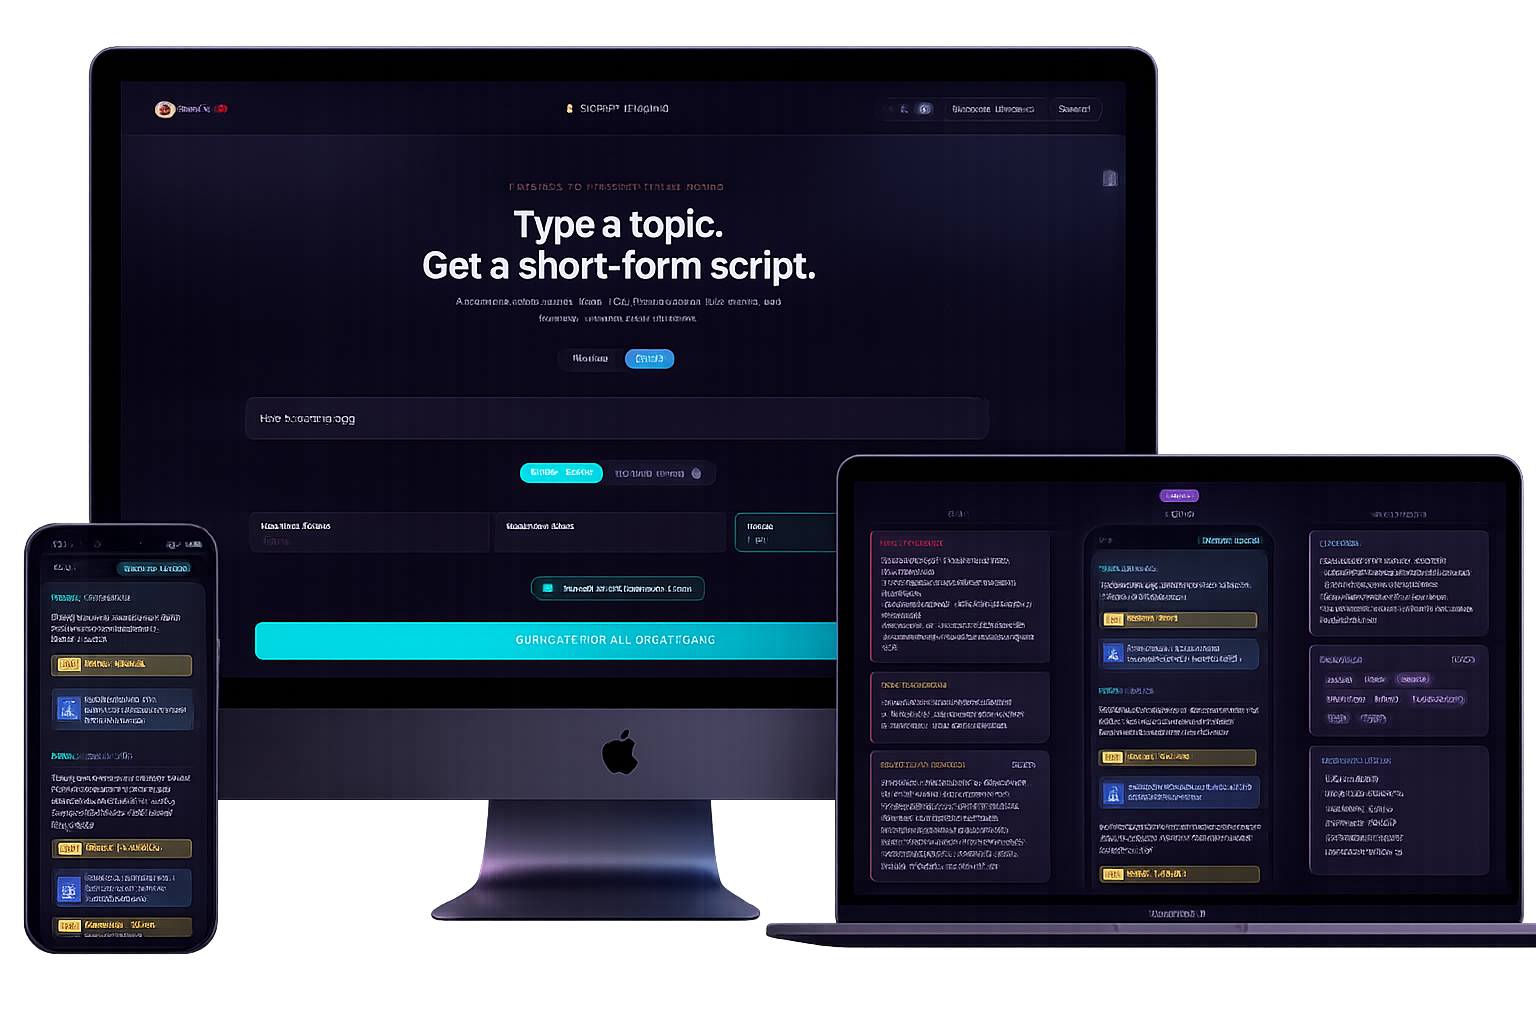
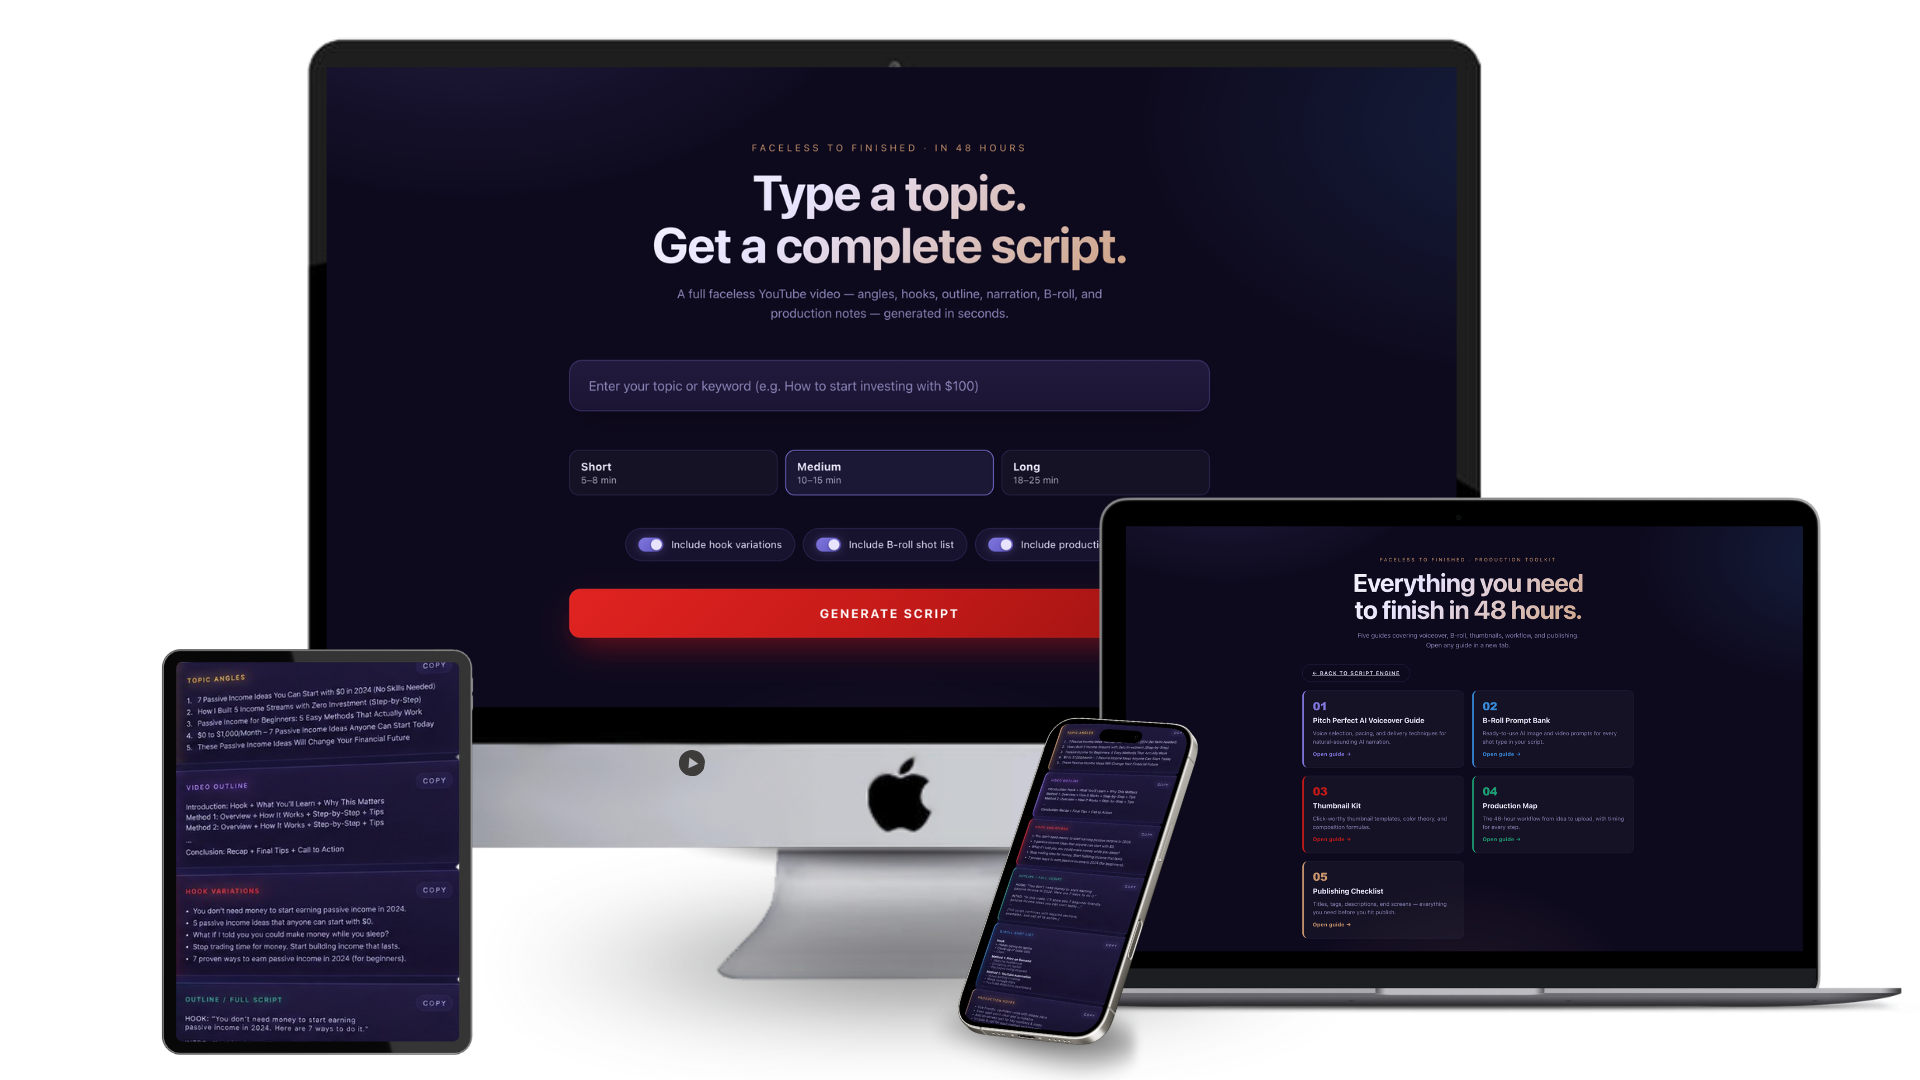
auto-commit for d523a716-f23a-4bb3-8fe0-ae420a1e267b

diff --git a/frontend/src/App.css b/frontend/src/App.css
@@ -283,21 +283,41 @@
 }
 .login-hero {
   display: flex; flex-direction: column;
-  /* Mobile: hero comes first and stays compact. Desktop: pinned center. */
+  align-items: center;
+  text-align: center;
+}
+.login-hero-image-wrap {
+  /* Wrapper exists solely to host the soft neon glow that sits BEHIND
+     the device-mockup PNG. The image itself has a transparent background,
+     so the glow is a layered radial gradient on this wrapper. */
+  position: relative;
+  width: 100%;
+  max-width: 520px;
+  margin: 0 0 28px;
+  display: flex; justify-content: center;
+}
+.login-hero-image-wrap::before {
+  content: "";
+  position: absolute;
+  inset: 0;
+  background:
+    radial-gradient(60% 55% at 50% 52%, rgba(124, 92, 240, 0.42) 0%, rgba(124, 92, 240, 0.18) 36%, transparent 70%),
+    radial-gradient(40% 35% at 50% 60%, rgba(255, 162, 64, 0.22) 0%, transparent 70%);
+  filter: blur(28px);
+  pointer-events: none;
+  z-index: 0;
 }
 .login-hero-image {
+  position: relative;
+  z-index: 1;
   width: 100%;
-  max-width: 480px;
+  max-width: 520px;
   height: auto;
-  margin: 0 0 24px;
-  /* Soft drop shadow so the device mockup floats on the dark background
-     without a hard rectangular edge. Filter > box-shadow because the PNG
-     has transparency around the devices. */
-  filter: drop-shadow(0 24px 40px rgba(124, 92, 240, 0.18))
-          drop-shadow(0 6px 12px rgba(0, 0, 0, 0.35));
+  filter: drop-shadow(0 18px 32px rgba(0, 0, 0, 0.4));
 }
 @media (max-width: 880px) {
-  .login-hero-image { max-width: 360px; align-self: center; }
+  .login-hero-image-wrap { max-width: 360px; }
+  .login-hero-image { max-width: 360px; }
 }
 .login-hero-eyebrow {
   font-weight: 600; font-size: 11px;
@@ -314,7 +334,17 @@
   color: var(--text);
 }
 .login-hero-accent {
-  background: linear-gradient(180deg, #FFFFFF 0%, #F5E8DA 55%, #D8B79A 100%);
+  /* Dark-mode default: cream → amber. The light-mode override below
+     swaps in deeper amber→orange so the text actually contrasts on
+     the near-white background. */
+  background: linear-gradient(180deg, #F7E2C7 0%, #E0A458 60%, #C9956C 100%);
+  -webkit-background-clip: text;
+  background-clip: text;
+  -webkit-text-fill-color: transparent;
+  color: transparent;
+}
+[data-theme="light"] .login-hero-accent {
+  background: linear-gradient(180deg, #C9711F 0%, #B0561B 60%, #8E3F12 100%);
   -webkit-background-clip: text;
   background-clip: text;
   -webkit-text-fill-color: transparent;
@@ -324,20 +354,25 @@
   color: var(--muted);
   font-size: 15px;
   line-height: 1.6;
-  margin: 0 0 28px;
+  margin: 0 auto 28px;
   max-width: 460px;
 }
 .login-hero-features {
   list-style: none;
   padding: 0;
-  margin: 0 0 28px;
+  margin: 0 auto 28px;
   display: flex; flex-direction: column;
   gap: 14px;
+  align-items: stretch;
+  width: 100%;
+  max-width: 360px;
 }
 .login-hero-feature {
   display: flex;
-  align-items: flex-start;
+  align-items: center;
+  justify-content: flex-start;
   gap: 14px;
+  text-align: left;
 }
 .login-hero-feature-icon {
   flex-shrink: 0;
@@ -372,11 +407,17 @@
 }
 .login-hero-link:hover { opacity: 0.8; }
 
-/* Tighten the login-card's vertical spacing when paired with hero */
-.login-grid .login-card { width: 100%; max-width: 440px; justify-self: center; }
+/* Tighten the login-card's vertical spacing when paired with hero +
+   center its inner text so it reads cleanly alongside the centered hero. */
+.login-grid .login-card {
+  width: 100%; max-width: 440px;
+  justify-self: center;
+  text-align: center;
+}
+.login-grid .login-card .login-form { align-items: stretch; }
 @media (min-width: 881px) {
-  .login-grid .login-card { justify-self: end; }
-  .login-grid .login-hero { justify-self: start; }
+  .login-grid .login-card { justify-self: center; }
+  .login-grid .login-hero { justify-self: center; }
 }
 
 /* ---------- Studio main ---------- */

diff --git a/frontend/src/pages/Login.jsx b/frontend/src/pages/Login.jsx
@@ -46,13 +46,17 @@ export default function Login() {
         {/* Brief landing hero — keeps non-customers oriented */}
         <section className="login-hero" data-testid="login-hero">
           {/* Hero illustration: device mockup showing the Script Engine in
-              action. Lives in /public so CRA serves it from %PUBLIC_URL%. */}
-          <img
-            className="login-hero-image"
-            src={`${process.env.PUBLIC_URL || ""}/login-hero.png`}
-            alt="Faceless to Finished Studio across desktop, laptop, and mobile"
-            data-testid="login-hero-image"
-          />
+              action. Lives in /public so CRA serves it from %PUBLIC_URL%.
+              The wrapper hosts a soft neon radial-glow that sits behind
+              the transparent PNG to give the mockup visual weight. */}
+          <div className="login-hero-image-wrap">
+            <img
+              className="login-hero-image"
+              src={`${process.env.PUBLIC_URL || ""}/login-hero.png`}
+              alt="Faceless to Finished Studio across desktop, laptop, tablet and mobile"
+              data-testid="login-hero-image"
+            />
+          </div>
           <p className="login-hero-eyebrow">Faceless to Finished</p>
           <h1 className="login-hero-headline">
             Hit publish <span className="login-hero-accent">10× faster.</span>

diff --git a/memory/PRD.md b/memory/PRD.md
@@ -15,6 +15,29 @@ paying customers + entitlements on the existing Netlify backend at
 `https://faceless48.c3global.co/api/auth-me` — the new Studio should call
 back to it for entitlement verification.
 
+## 2026-02-19 — Phase 3.5j: Login hero polish (new mockup + centered layout + light-mode gradient + neon glow)
+**Status:** SHIPPED — dark mode visually verified, light mode CSS follows existing `[data-theme="light"]` override pattern.
+
+User feedback after iter-21 deploy: (1) the cream→amber "10×" gradient was invisible on light mode, (2) the 3-device hero image was the wrong asset, (3) hero text and sign-in card text needed to be center-aligned, (4) the device mockup needed a subtle neon highlight behind it to "stand out" on the page.
+
+**Changes**
+- Replaced `/app/frontend/public/login-hero.png` with the new 4-device F2F48 Product Mockup asset (iMac + iPad + iPhone + MacBook, 682KB).
+- Wrapped the `<img>` in `.login-hero-image-wrap` so a `::before` pseudo-element can render a soft layered radial-gradient glow (purple #7C5CF0 ~42% opacity + amber #FFA240 ~22% opacity, 28px blur) BEHIND the transparent PNG. Image gets a fresh `drop-shadow` filter to anchor it visually.
+- `.login-hero-accent` now uses a cream→amber gradient (`#F7E2C7 → #E0A458 → #C9956C`) in dark mode (visible against the dark navy bg), and a `[data-theme="light"]` override uses a deeper amber→bronze gradient (`#C9711F → #B0561B → #8E3F12`) so the text reads cleanly on light mode's near-white background. Single declaration matches the rest of App.css's theme-override convention.
+- `.login-hero` centers all children (`text-align: center; align-items: center;`); features list center-aligned as a 360px-wide block with each row left-aligned within.
+- `.login-grid .login-card` gets `text-align: center` + matching `justify-self: center` on both columns (was `start`/`end` before).
+- Mobile breakpoint (<880px) tightens image max-width to 360px and stacks columns.
+
+**Files touched**
+- `/app/frontend/src/pages/Login.jsx` — image now wrapped in `.login-hero-image-wrap`.
+- `/app/frontend/src/App.css` — `.login-hero` text-center, `.login-hero-image-wrap` + `::before` glow, `.login-hero-image` (refactored), `.login-hero-accent` (theme-aware gradient), `.login-hero-features` (centered, max-width), `.login-grid .login-card { text-align: center }`.
+- `/app/frontend/public/login-hero.png` — replaced with the new 4-device mockup.
+
+**Verified**
+- Dark mode screenshot: image visible with subtle purple/amber halo behind it, "10× faster." amber gradient is highly visible, all hero text + sign-in card text centered, layout balanced.
+- Light mode: CSS rule `[data-theme="light"] .login-hero-accent { background: linear-gradient(180deg, #C9711F 0%, #B0561B 60%, #8E3F12 100%); ... }` follows the same selector convention as the existing `[data-theme="light"] .studio-title` rule.
+
+
 ## 2026-02-19 — Phase 3.5i: Landing-feel login page + first-time visitor copy fix
 **Status:** SHIPPED — visual verification PASS.
 
